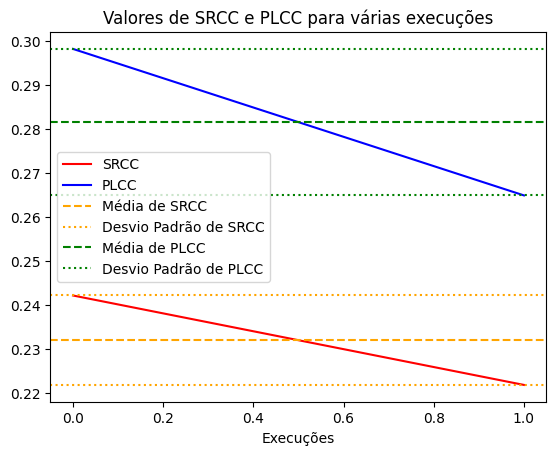
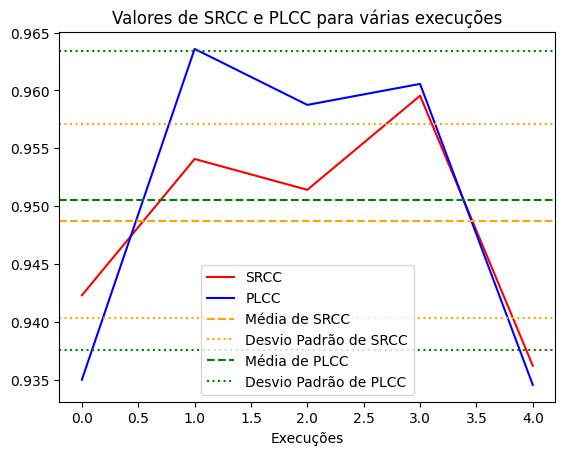
results for diqa and oct diqa with all layers

diff --git a/image_classification/diqa_training.py b/image_classification/diqa_training.py
@@ -74,7 +74,7 @@ if __name__ == '__main__':
         srcc_list.append(metrics['SRCC'])
         plcc_list.append(metrics['PLCC'])
         if metrics['SRCC'] >= max(srcc_list):
-            torch.save(model.state_dict(), f"trained_models/model_diqa_{epochs}.pth")
+            torch.save(model.state_dict(), f"trained_models/model_{name}_{epochs}.pth")
             print(f"Saved PyTorch Model State to model on execution {i}.pth")
 
     plt.plot(srcc_list,color='red', label='SRCC')
